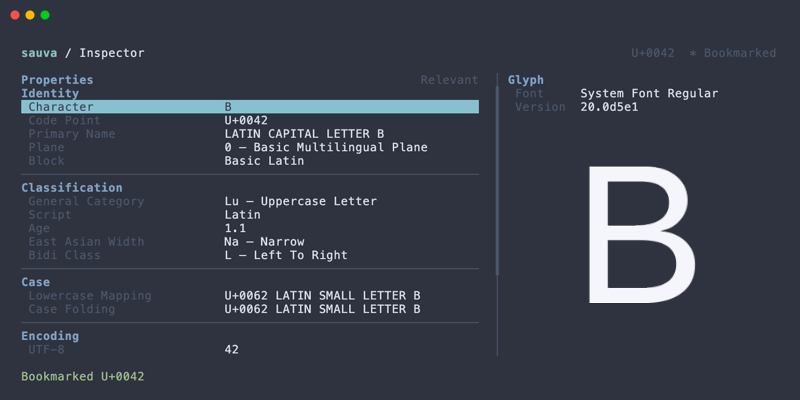
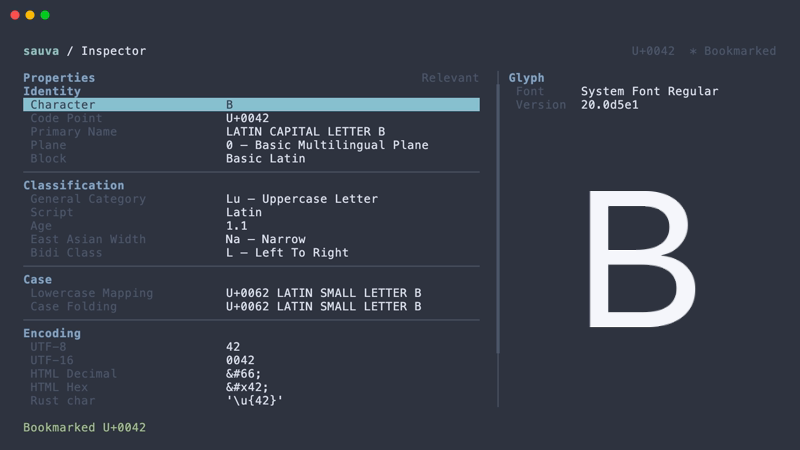
Capture documentation screenshots in a dedicated tape

diff --git a/docs/src/features/inspector.md b/docs/src/features/inspector.md
@@ -70,6 +70,8 @@ Code point navigation and display mode changes keep the same property selected w
 
 Select a property and press <kbd>e</kbd> to read its meaning, possible values or format, notes, and a specification reference. Explanations are bundled with Sauva and can be read offline, including for unavailable values shown in **All** mode.
 
+![Property explanation](https://raw.githubusercontent.com/lusingander/sauva/refs/heads/master/img/property-explanation.png)
+
 **Current value** shows the selected code point and its value; it scrolls with the explanation.
 
 Press <kbd>o</kbd> to open the specification in your default browser, or <kbd>y</kbd> to copy its URL. Opening the reference uses the external browser; reading the explanation does not access the network.
